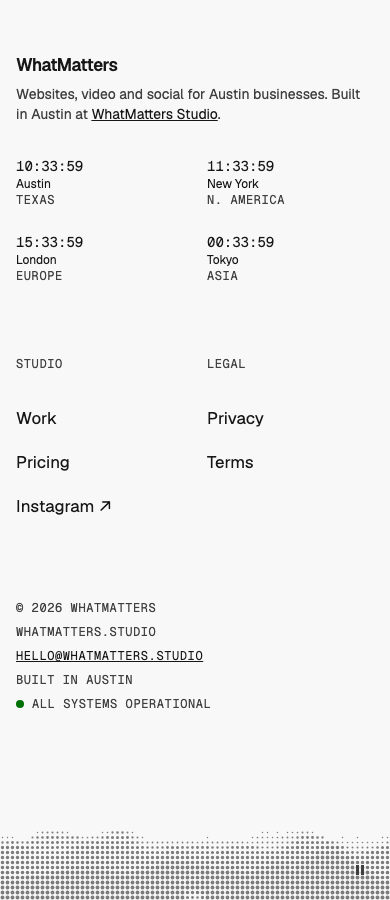
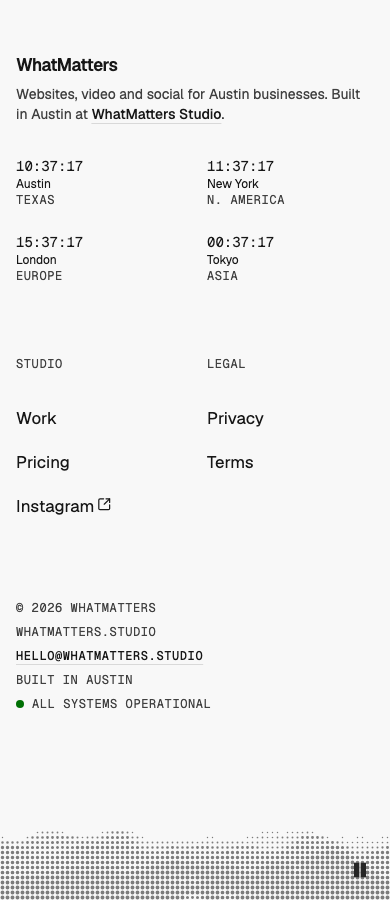
Footer — Landscape: WMDS TextLink, Status and IconButton; 48/64px section padding. SKILL.md: base colours, WMDS components first, full-width sections with 4rem padding

diff --git a/patterns/footer/landscape/FooterLandscape.tsx b/patterns/footer/landscape/FooterLandscape.tsx
@@ -6,7 +6,7 @@
  * Your Tailwind must scan this file (it does if it sits in your app's source folders).
  */
 import { useEffect, useId, useMemo, useRef, useState, type ReactNode } from "react";
-import { cn } from "@thewhatmatters/wmds";
+import { cn, IconButton, Status, TextLink } from "@thewhatmatters/wmds";
 
 /* Every class is written out in full (never interpolated) so Tailwind sees it. `data-slot` marks where your
    content goes; it does nothing on a page (the gallery outlines slots with it). */
@@ -36,10 +36,10 @@ export interface FooterLandscapeProps {
 
 /** Root: the tinted paper. `--color-background-muted` is the paper knob (set it in brand.css). */
 const rootClasses = "relative w-full overflow-x-clip bg-[var(--color-background-muted)] text-fg";
-/** Content top: clear paper above the brand (32 / 40 / 48). */
-const gridClasses = "grid-page relative !pt-8 !pb-0 md:!pt-10 lg:!pt-12";
+/** Section padding: 48px on phones, 64px (4rem) from md, top and bottom (the band, when present, is the bottom). */
+const gridClasses = "grid-page relative !pt-12 !pb-0 md:!pt-16";
 const brandBlockClasses = "col-span-full flex flex-col gap-1.5 md:col-span-5 lg:col-span-6";
-const pitchClasses = "max-w-[40ch] text-muted type-body [&_a]:text-fg [&_a]:underline";
+const pitchClasses = "max-w-[40ch] text-muted type-body";
 /** Links: right-aligned block (2 columns of the grid each); 3–4 columns take their own row. */
 const linksClasses = {
   one: "col-span-full mt-12 md:col-span-2 md:col-start-7 md:mt-0 lg:col-start-11",
@@ -49,13 +49,15 @@ const linksClasses = {
 } as const;
 const longColumnClasses = "col-span-2 lg:col-span-3";
 const linkLabelClasses = "mb-6 text-muted type-eyebrow";
-const linkClasses = "inline-block py-2.5 type-large font-normal text-fg hover:underline focus-visible:underline";
+/** A 44px tap row; the link itself is a WMDS quiet TextLink at the item's size. */
+const linkItemClasses = "type-large font-normal text-fg";
+const linkClasses = "inline-block py-2.5";
 /** Fact strip: centred and dot-separated from md; stacked one per line on phones. */
 const factsClasses =
-  "col-span-full mt-12 flex flex-col gap-2 text-muted type-eyebrow md:mt-16 md:flex-row md:flex-wrap md:justify-center md:gap-x-3 lg:mt-24 " +
-  "[&_a]:text-fg [&_a]:underline";
+  "col-span-full mt-12 flex flex-col gap-2 text-muted type-eyebrow md:mt-16 md:flex-row md:flex-wrap md:justify-center md:gap-x-3 lg:mt-24";
 const factClasses = "whitespace-nowrap md:[&:not(:first-child)]:before:mr-3 md:[&:not(:first-child)]:before:content-['·'_/_'']";
 const bandWrapClasses = "relative mt-2 w-full md:mt-4 lg:mt-6";
+/** Bottom padding when there's no band: the same 48 / 64 as the top. */
 const endClasses = "h-12 md:h-16";
 
 export function FooterLandscape({ brand, pitch, clocks, links = [], facts = [], status, moment, className }: FooterLandscapeProps) {
@@ -87,16 +89,10 @@ export function FooterLandscape({ brand, pitch, clocks, links = [], facts = [], 
                 </p>
                 <ul aria-labelledby={`${id}-l${i}`}>
                   {column.links.map((link) => (
-                    <li key={link.label}>
-                      <a
-                        href={link.href}
-                        className={linkClasses}
-                        {...(link.external ? { target: "_blank", rel: "noreferrer" } : {})}
-                      >
+                    <li key={link.label} className={linkItemClasses}>
+                      <TextLink href={link.href} variant="quiet" external={link.external} className={linkClasses}>
                         {link.label}
-                        {link.external ? <span aria-hidden> ↗</span> : null}
-                        {link.external ? <span className="sr-only"> (opens in a new tab)</span> : null}
-                      </a>
+                      </TextLink>
                     </li>
                   ))}
                 </ul>
@@ -114,7 +110,7 @@ export function FooterLandscape({ brand, pitch, clocks, links = [], facts = [], 
             ))}
             {status != null ? (
               <li className={cn(factClasses, "inline-flex items-center gap-2")}>
-                <span className="inline-block size-2 rounded-full bg-success" aria-hidden />
+                <Status variant="dot" tone="success" besideLabel />
                 <span className="sr-only">Status: </span>
                 {status}
               </li>
@@ -223,18 +219,14 @@ export interface FooterAsciiBandProps {
 }
 
 const classicRamp = " .:-=+*#%@";
-/** Band height 220 / 300 / 360. */
+/** Band height 180 / 240 / 280. */
 const bandClasses = "relative h-[180px] w-full md:h-[240px] lg:h-[280px]";
 /** The drawing: text colour at 55% (45% dark), its top 20% fading into the paper. The toggle sits outside it, at full contrast. */
 const bandArtClasses =
   "absolute inset-0 text-fg opacity-55 [[data-theme=dark]_&]:opacity-45 " +
   "[mask-image:linear-gradient(to_bottom,transparent,black_20%)]";
-/** Quiet pause toggle: a 44px hit area, a 12px glyph, no background until hover or focus. */
-const toggleClasses =
-  "absolute right-2 bottom-2 z-10 grid size-11 place-items-center rounded-full text-muted " +
-  "hover:bg-[color-mix(in_srgb,var(--color-fg)_8%,transparent)] hover:text-fg " +
-  "focus-visible:bg-[color-mix(in_srgb,var(--color-fg)_8%,transparent)] focus-visible:text-fg " +
-  "focus-visible:outline-2 focus-visible:outline-offset-2 focus-visible:outline-[var(--color-fg)]";
+/** The pause toggle: a WMDS ghost IconButton in the band's corner. */
+const toggleClasses = "absolute right-2 bottom-2 z-10";
 
 /**
  * The landscape drawn live as a halftone: each video frame is drawn tiny (one pixel per cell) on a hidden
@@ -409,12 +401,16 @@ export function FooterAsciiBand({ src, poster, ramp = "dots", threshold = 60, fo
         <canvas ref={canvasRef} aria-hidden className="absolute inset-0 size-full" />
       </div>
       <video ref={videoRef} src={src} poster={poster} muted loop playsInline preload="auto" crossOrigin="anonymous" className="hidden" aria-hidden />
-      <button type="button" onClick={toggle} className={toggleClasses} aria-pressed={!playing}>
-        <span className="sr-only">{playing ? "Pause background motion" : "Play background motion"}</span>
-        <svg viewBox="0 0 12 12" className="size-3" aria-hidden focusable="false">
-          {playing ? <path fill="currentColor" d="M2 1h3v10H2zM7 1h3v10H7z" /> : <path fill="currentColor" d="M3 1l8 5-8 5z" />}
-        </svg>
-      </button>
+      <IconButton
+        onClick={toggle}
+        className={toggleClasses}
+        aria-label={playing ? "Pause background motion" : "Play background motion"}
+        icon={
+          <svg viewBox="0 0 12 12" aria-hidden focusable="false">
+            {playing ? <path fill="currentColor" d="M2 1h3v10H2zM7 1h3v10H7z" /> : <path fill="currentColor" d="M3 1l8 5-8 5z" />}
+          </svg>
+        }
+      />
     </div>
   );
 }

diff --git a/patterns/footer/landscape/example.tsx b/patterns/footer/landscape/example.tsx
@@ -3,6 +3,7 @@
  * Range Flyover Animation"), cropped to the ridges. Until the licensed file is in, it plays from
  * gallery/public/local/ (not committed). Replace the brand, copy, links and clip with the client's own.
  */
+import { TextLink } from "@thewhatmatters/wmds";
 import { FooterAsciiBand, FooterClocks, FooterLandscape, type FooterLandscapeProps } from "./FooterLandscape";
 
 const base = import.meta.env.BASE_URL;
@@ -20,7 +21,7 @@ export function FooterLandscapeExample(props: Partial<FooterLandscapeProps>) {
         brand={<span className="type-large font-semibold tracking-tight">WhatMatters</span>}
         pitch={
           <>
-            Websites, video and social for Austin businesses. Built in Austin at <a href="#studio">WhatMatters Studio</a>.
+            Websites, video and social for Austin businesses. Built in Austin at <TextLink href="#studio">WhatMatters Studio</TextLink>.
           </>
         }
         clocks={
@@ -37,7 +38,7 @@ export function FooterLandscapeExample(props: Partial<FooterLandscapeProps>) {
           { label: "Studio", links: [{ label: "Work", href: "#work" }, { label: "Pricing", href: "#pricing" }, { label: "Instagram", href: "#ig", external: true }] },
           { label: "Legal", links: [{ label: "Privacy", href: "#privacy" }, { label: "Terms", href: "#terms" }] },
         ]}
-        facts={["© 2026 WhatMatters", "whatmatters.studio", <a href="mailto:hello@whatmatters.studio">hello@whatmatters.studio</a>, "Built in Austin"]}
+        facts={["© 2026 WhatMatters", "whatmatters.studio", <TextLink href="mailto:hello@whatmatters.studio">hello@whatmatters.studio</TextLink>, "Built in Austin"]}
         status="All systems operational"
         moment={<FooterAsciiBand src={`${base}local/footer-landscape.mp4`} focusY={1} />}
         {...props}

diff --git a/patterns/footer/landscape/README.md b/patterns/footer/landscape/README.md
@@ -34,12 +34,12 @@ import { FooterAsciiBand, FooterClocks, FooterLandscape } from "./FooterLandscap
 | `brand` | slot | The logo lockup; a co-brand is fine |
 | `pitch` | ReactNode | One short line, about 40 characters wide; may hold an inline link |
 | `clocks` | slot, optional | A small live detail, usually `<FooterClocks cities={…} />` (0–4 cities; 2×2 on phones). `<time>` per city with an aria-label; not a live region; HH:MM once a minute under reduced motion |
-| `links` | `{ label, links: { label, href, external? }[] }[]` | 1–4 columns. 1–2 sit on the right; 3–4 take their own row. 44px tall hit areas |
+| `links` | `{ label, links: { label, href, external? }[] }[]` | 1–4 columns. 1–2 sit on the right; 3–4 take their own row. WMDS `TextLink` (quiet; `external` adds its icon and opens a new tab), 44px tall hit areas |
 | `facts` | ReactNode[] | The fact strip: dot-separated and centred from 768, stacked one per line on phones |
-| `status` | ReactNode, optional | A green dot plus text at the end of the strip ("Status:" for screen readers) |
+| `status` | ReactNode, optional | A WMDS `Status` dot (success) plus text at the end of the strip ("Status:" for screen readers) |
 | `moment` | slot, optional | The band at the bottom, usually `<FooterAsciiBand src poster? ramp? threshold? />`. Leave it out to end on the strip |
 
-`FooterAsciiBand`: `src` a looping landscape video (same-origin, or CORS), `poster` shown until the first frame and under reduced motion, `ramp` `"dots"` (default, a true halftone) or `"classic"` (ASCII characters), `threshold` (0–441, default 60) how far from the sky colour a pixel must be to get a dot, `focusY` (0–1, default 0.5) which part of the video sits in the band (put the ridgeline near the middle). It reads the sky as the top row's median colour, stretches the land's tones (smoothed over frames, so it doesn't pulse), drops the faintest haze, and flips the tone in dark mode. It draws in the text colour at 55% (45% in dark), 180 / 240 / 280px tall, the top 20% fading into the paper; pauses off-screen; and has a quiet pause toggle (a 44px button with a 12px glyph, "Pause background motion" for screen readers), since the loop runs past 5s (WCAG 2.2.2).
+`FooterAsciiBand`: `src` a looping landscape video (same-origin, or CORS), `poster` shown until the first frame and under reduced motion, `ramp` `"dots"` (default, a true halftone) or `"classic"` (ASCII characters), `threshold` (0–441, default 60) how far from the sky colour a pixel must be to get a dot, `focusY` (0–1, default 0.5) which part of the video sits in the band (put the ridgeline near the middle). It reads the sky as the top row's median colour, stretches the land's tones (smoothed over frames, so it doesn't pulse), drops the faintest haze, and flips the tone in dark mode. It draws in the text colour at 55% (45% in dark), 180 / 240 / 280px tall, the top 20% fading into the paper; pauses off-screen; and has a pause toggle (a WMDS ghost `IconButton`, "Pause background motion" for screen readers), since the loop runs past 5s (WCAG 2.2.2).
 
 ## Knobs
 
@@ -60,3 +60,5 @@ The first item is the example the gallery's Copy prompt uses.
 
 - Checked against **@thewhatmatters/wmds 0.4.27**. No WMDS gap found: the tokens cover it.
 - Example clip: Envato "Abstract Mountain Range Flyover Animation" (Randy's pick, 2026-10-27). Until the licensed file is downloaded, the gallery plays Envato's preview from `gallery/public/local/` (not committed, not for publishing).
+
+Spacing: full width; 48px top and bottom on phones, 64px (4rem) from tablet up. With a band, the band is the bottom edge.

diff --git a/SKILL.md b/SKILL.md
@@ -30,5 +30,8 @@ Patterns marked draft aren't approved yet: prefer approved ones, and say so if y
 
 - Folders are `patterns/<type>/<variant>/` (hero, footer, content-box, …).
 - Slots are `ReactNode` props for the parts that change per page (`nav`, `actions`, `visual`, `logos`). Optional slots render nothing when empty.
+- **WMDS base colours only** (tokens like `text-fg`, `text-muted`, `--color-background-muted`); no hex tints from a reference. Brands change colours in their own stylesheet.
+- **WMDS components first** (`Button`, `IconButton`, `TextLink`, `Status`, …). If a pattern needs a part WMDS doesn't have, it's a WMDS gap: raise it, don't hand-build a lookalike.
+- **Sections are full viewport width** with consistent vertical padding: 64px (4rem) top and bottom on desktop, 48px on phones.
 - Patterns import only from `@thewhatmatters/wmds` and React. Nothing animates by default; add motion in the page if the request asks for it.
 - Each pattern is checked against the WMDS version in `README.md` (`npm run check`).
